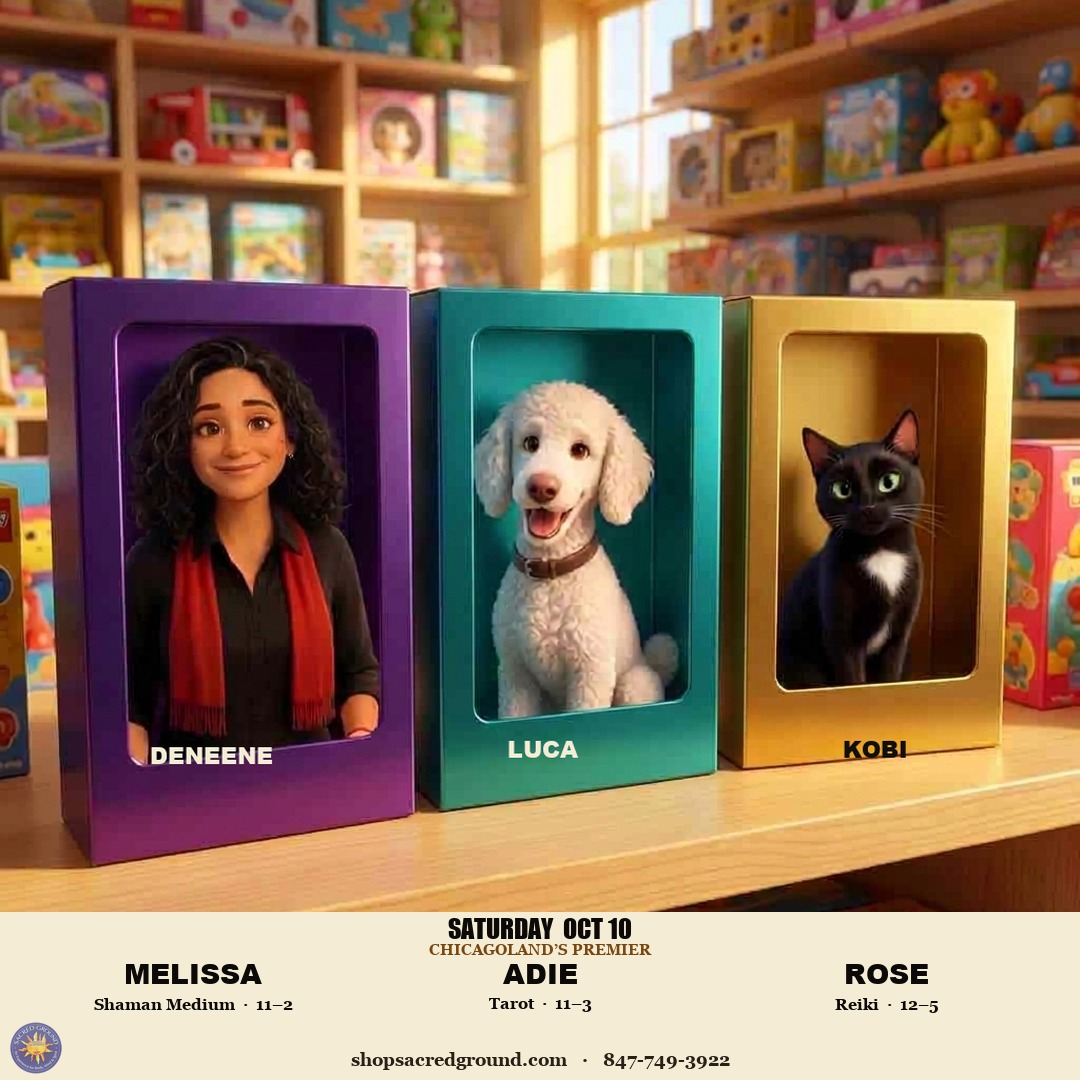
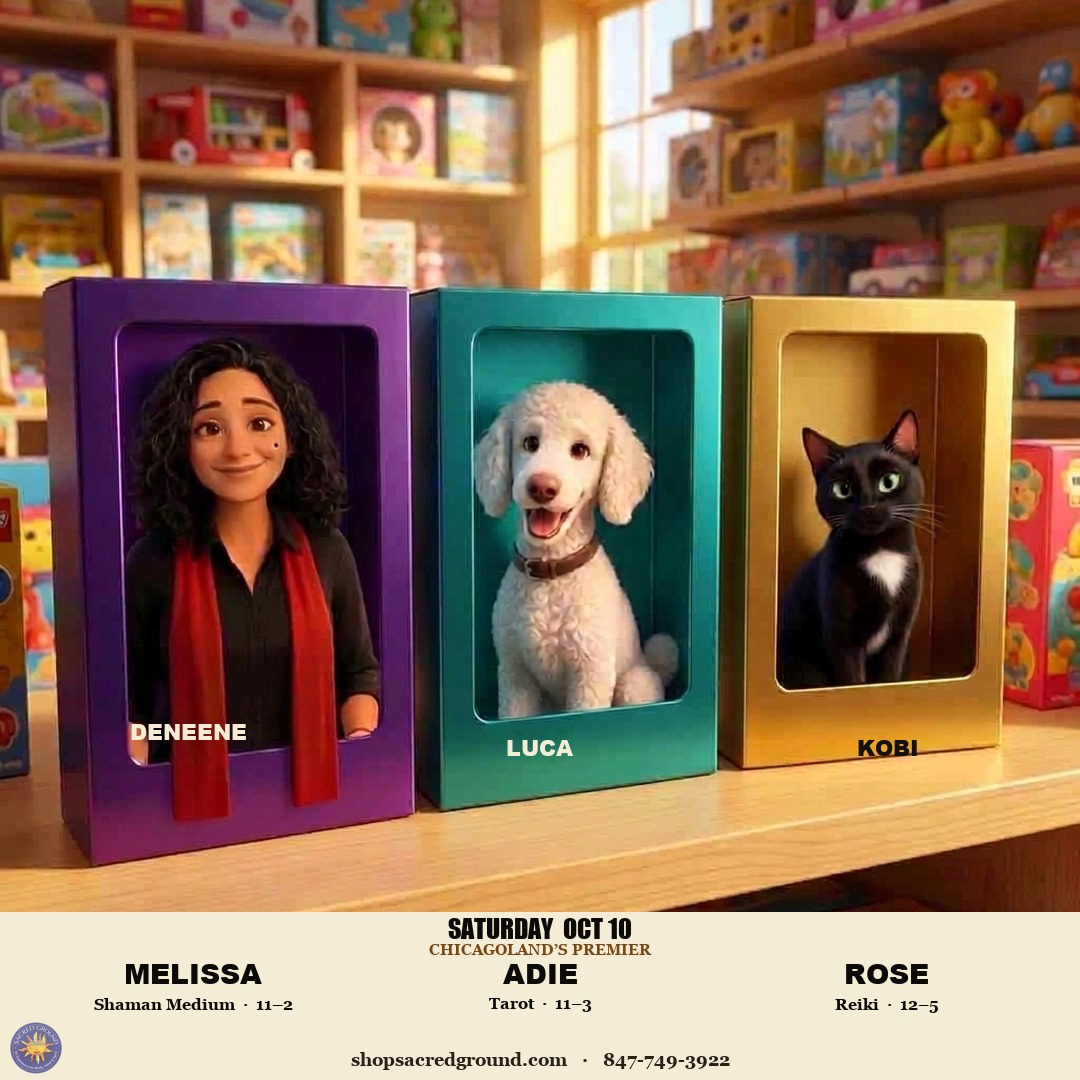
Restore Deneene’s smile and beauty mark; move the box names onto the lips.

diff --git a/assets/_week_show/oct_ideas/compose_oct10_crew.py b/assets/_week_show/oct_ideas/compose_oct10_crew.py
@@ -1,0 +1,82 @@
+#!/usr/bin/env python3
+"""Oct 10 Galactic Adventurers boxes — names on the colored lips (PIL)."""
+
+from pathlib import Path
+
+from PIL import Image, ImageDraw, ImageFont
+
+ROOT = Path(__file__).resolve().parents[3]
+ART = ROOT / "assets/_week_show/oct_nights/oct10-crew-boxes-v5.jpg"
+OUT = ROOT / "assets/sg-morning-flyer-2026-10-10.jpg"
+DESK = Path.home() / "Desktop" / "sg-civilization-nights" / "sg-morning-flyer-2026-10-10.jpg"
+LOGO = ROOT / "config/brand/sacred-ground-logo-circle-transparent.png"
+SIZE, FOOTER_H = 1080, 168
+CREAM, INK, GOLD = (245, 236, 214), (12, 10, 8), (120, 70, 16)
+# Names sit on the box lip under the window (22pt). Kobi lower on gold.
+BOX_NAMES = [
+    ("DENEENE", 188, 732, (245, 236, 214)),
+    ("LUCA", 540, 748, (245, 236, 214)),
+    ("KOBI", 888, 748, (20, 16, 12)),
+]
+
+
+def fnt(name: str, size: int):
+    for base in (Path("/System/Library/Fonts/Supplemental"), Path("/System/Library/Fonts")):
+        p = base / name
+        if p.is_file():
+            return ImageFont.truetype(str(p), size)
+    return ImageFont.truetype("/System/Library/Fonts/Helvetica.ttc", size)
+
+
+def fit_cover(im, w, h):
+    im = im.convert("RGB")
+    iw, ih = im.size
+    scale = max(w / iw, h / ih)
+    nw, nh = int(iw * scale), int(ih * scale)
+    im = im.resize((nw, nh), Image.Resampling.LANCZOS)
+    left = (nw - w) // 2
+    top = max(0, (nh - h) // 6)
+    return im.crop((left, top, left + w, top + h))
+
+
+def center(draw, y, text, font, fill, width, x0=0):
+    bbox = draw.textbbox((0, 0), text, font=font)
+    tw = bbox[2] - bbox[0]
+    draw.text((x0 + (width - tw) / 2, y - bbox[1]), text, font=font, fill=fill)
+
+
+def main() -> None:
+    photo_h = SIZE - FOOTER_H
+    photo = fit_cover(Image.open(ART), SIZE, photo_h)
+    d = ImageDraw.Draw(photo)
+    namef = fnt("Arial Black.ttf", 22)
+    for text, cx, cy, fill in BOX_NAMES:
+        bbox = d.textbbox((0, 0), text, font=namef)
+        tw, th = bbox[2] - bbox[0], bbox[3] - bbox[1]
+        d.text((cx - tw / 2 - bbox[0], cy - th / 2 - bbox[1]), text, font=namef, fill=fill)
+
+    canvas = Image.new("RGB", (SIZE, SIZE), CREAM)
+    canvas.paste(photo, (0, 0))
+    draw = ImageDraw.Draw(canvas)
+    top = photo_h + 6
+    center(draw, top, "SATURDAY  OCT 10", fnt("Impact.ttf", 26), INK, SIZE)
+    center(draw, top + 26, "CHICAGOLAND’S PREMIER", fnt("Georgia Bold.ttf", 15), GOLD, SIZE)
+    events = [("MELISSA", "Shaman Medium  ·  11–2"), ("ADIE", "Tarot  ·  11–3"), ("ROSE", "Reiki  ·  12–5")]
+    col_w = (SIZE - 40) / 3
+    for i, (name, detail) in enumerate(events):
+        x0 = 20 + i * col_w
+        center(draw, top + 46, name, fnt("Arial Black.ttf", 28), INK, col_w, x0=x0)
+        center(draw, top + 80, detail, fnt("Georgia Bold.ttf", 16), INK, col_w, x0=x0)
+    center(draw, SIZE - 28, "shopsacredground.com   ·   847-749-3922", fnt("Georgia Bold.ttf", 18), (40, 32, 22), SIZE)
+    logo = Image.open(LOGO).convert("RGBA").resize((52, 52), Image.Resampling.LANCZOS)
+    a = logo.split()[3].point(lambda p: int(p * 0.88))
+    logo.putalpha(a)
+    canvas.paste(logo, (10, SIZE - 58), logo)
+    canvas.save(OUT, quality=92, optimize=True)
+    DESK.parent.mkdir(parents=True, exist_ok=True)
+    canvas.save(DESK, quality=92)
+    print(OUT)
+
+
+if __name__ == "__main__":
+    main()

diff --git a/WORK-LOG.md b/WORK-LOG.md
@@ -1,3 +1,10 @@
+## 2026-09-26 — Oct 10 crew: smile, beauty mark, Kobi name
+
+Founder: beauty mark back on her right cheek, smile, reposition Kobi.
+Art **28725** (`oct10-crew-boxes-v5.jpg`) — closed-lip smile, mole on her
+right cheek (viewer left), long scarf, no fringe. PIL 22pt names on the
+box lips: DENEENE / LUCA / KOBI. Still `do_not_publish` until she unlocks.
+
 ## 2026-09-26 — Civilization nights pinned; Oct 10 crew boxes
 
 Founder: nights are great — mix through October, not back-to-back, never on
